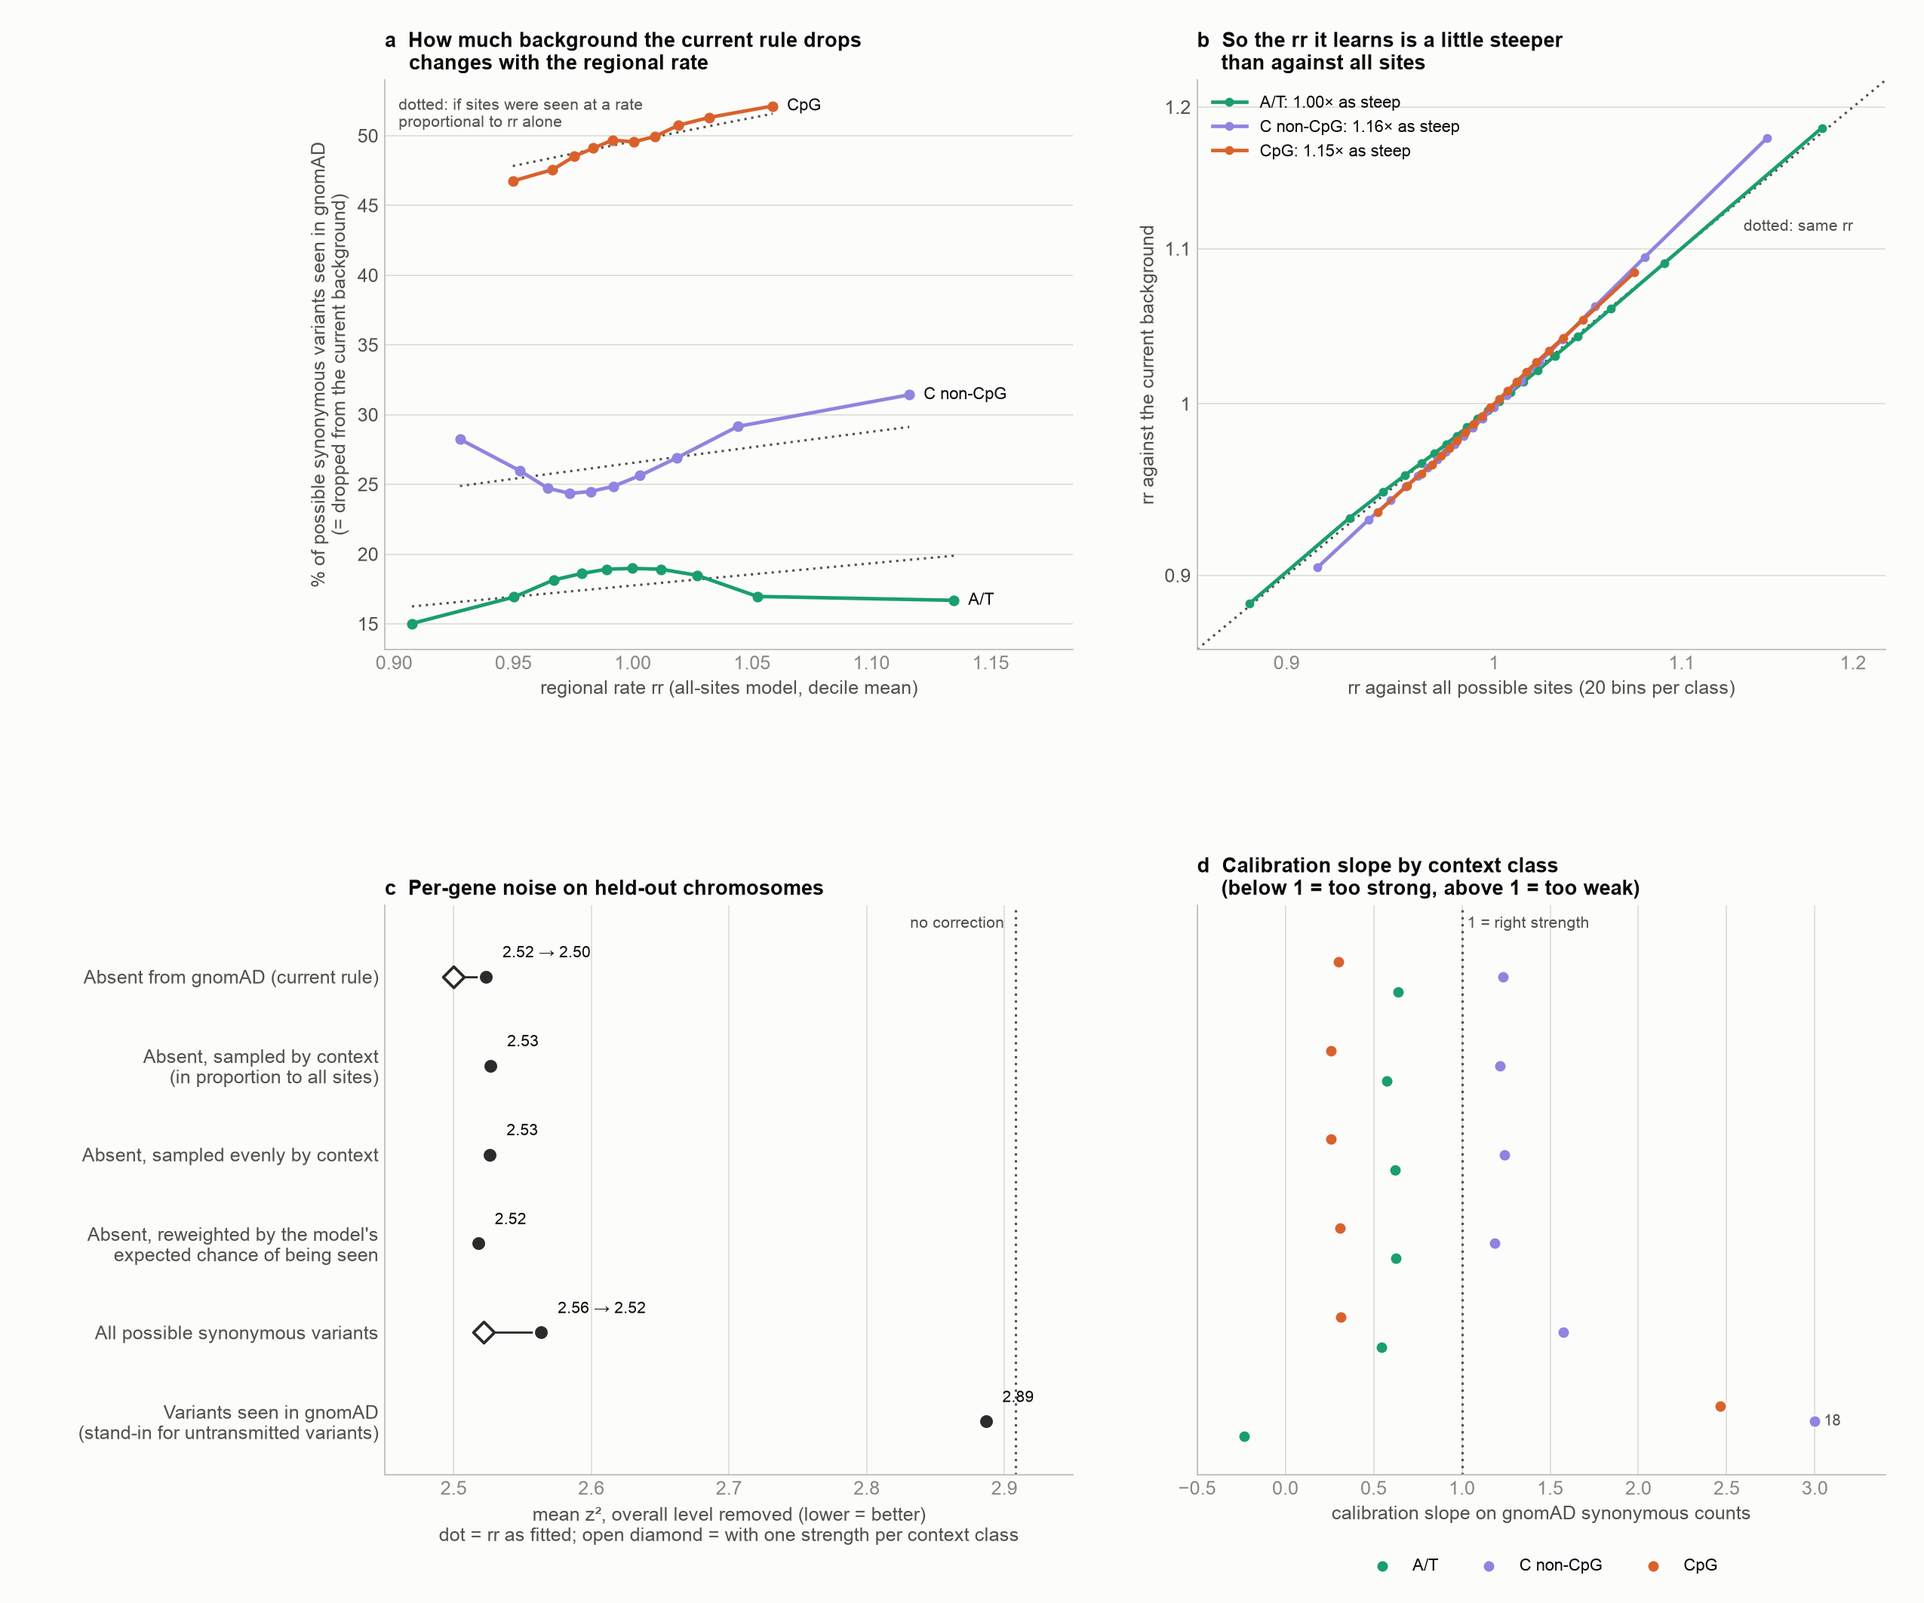
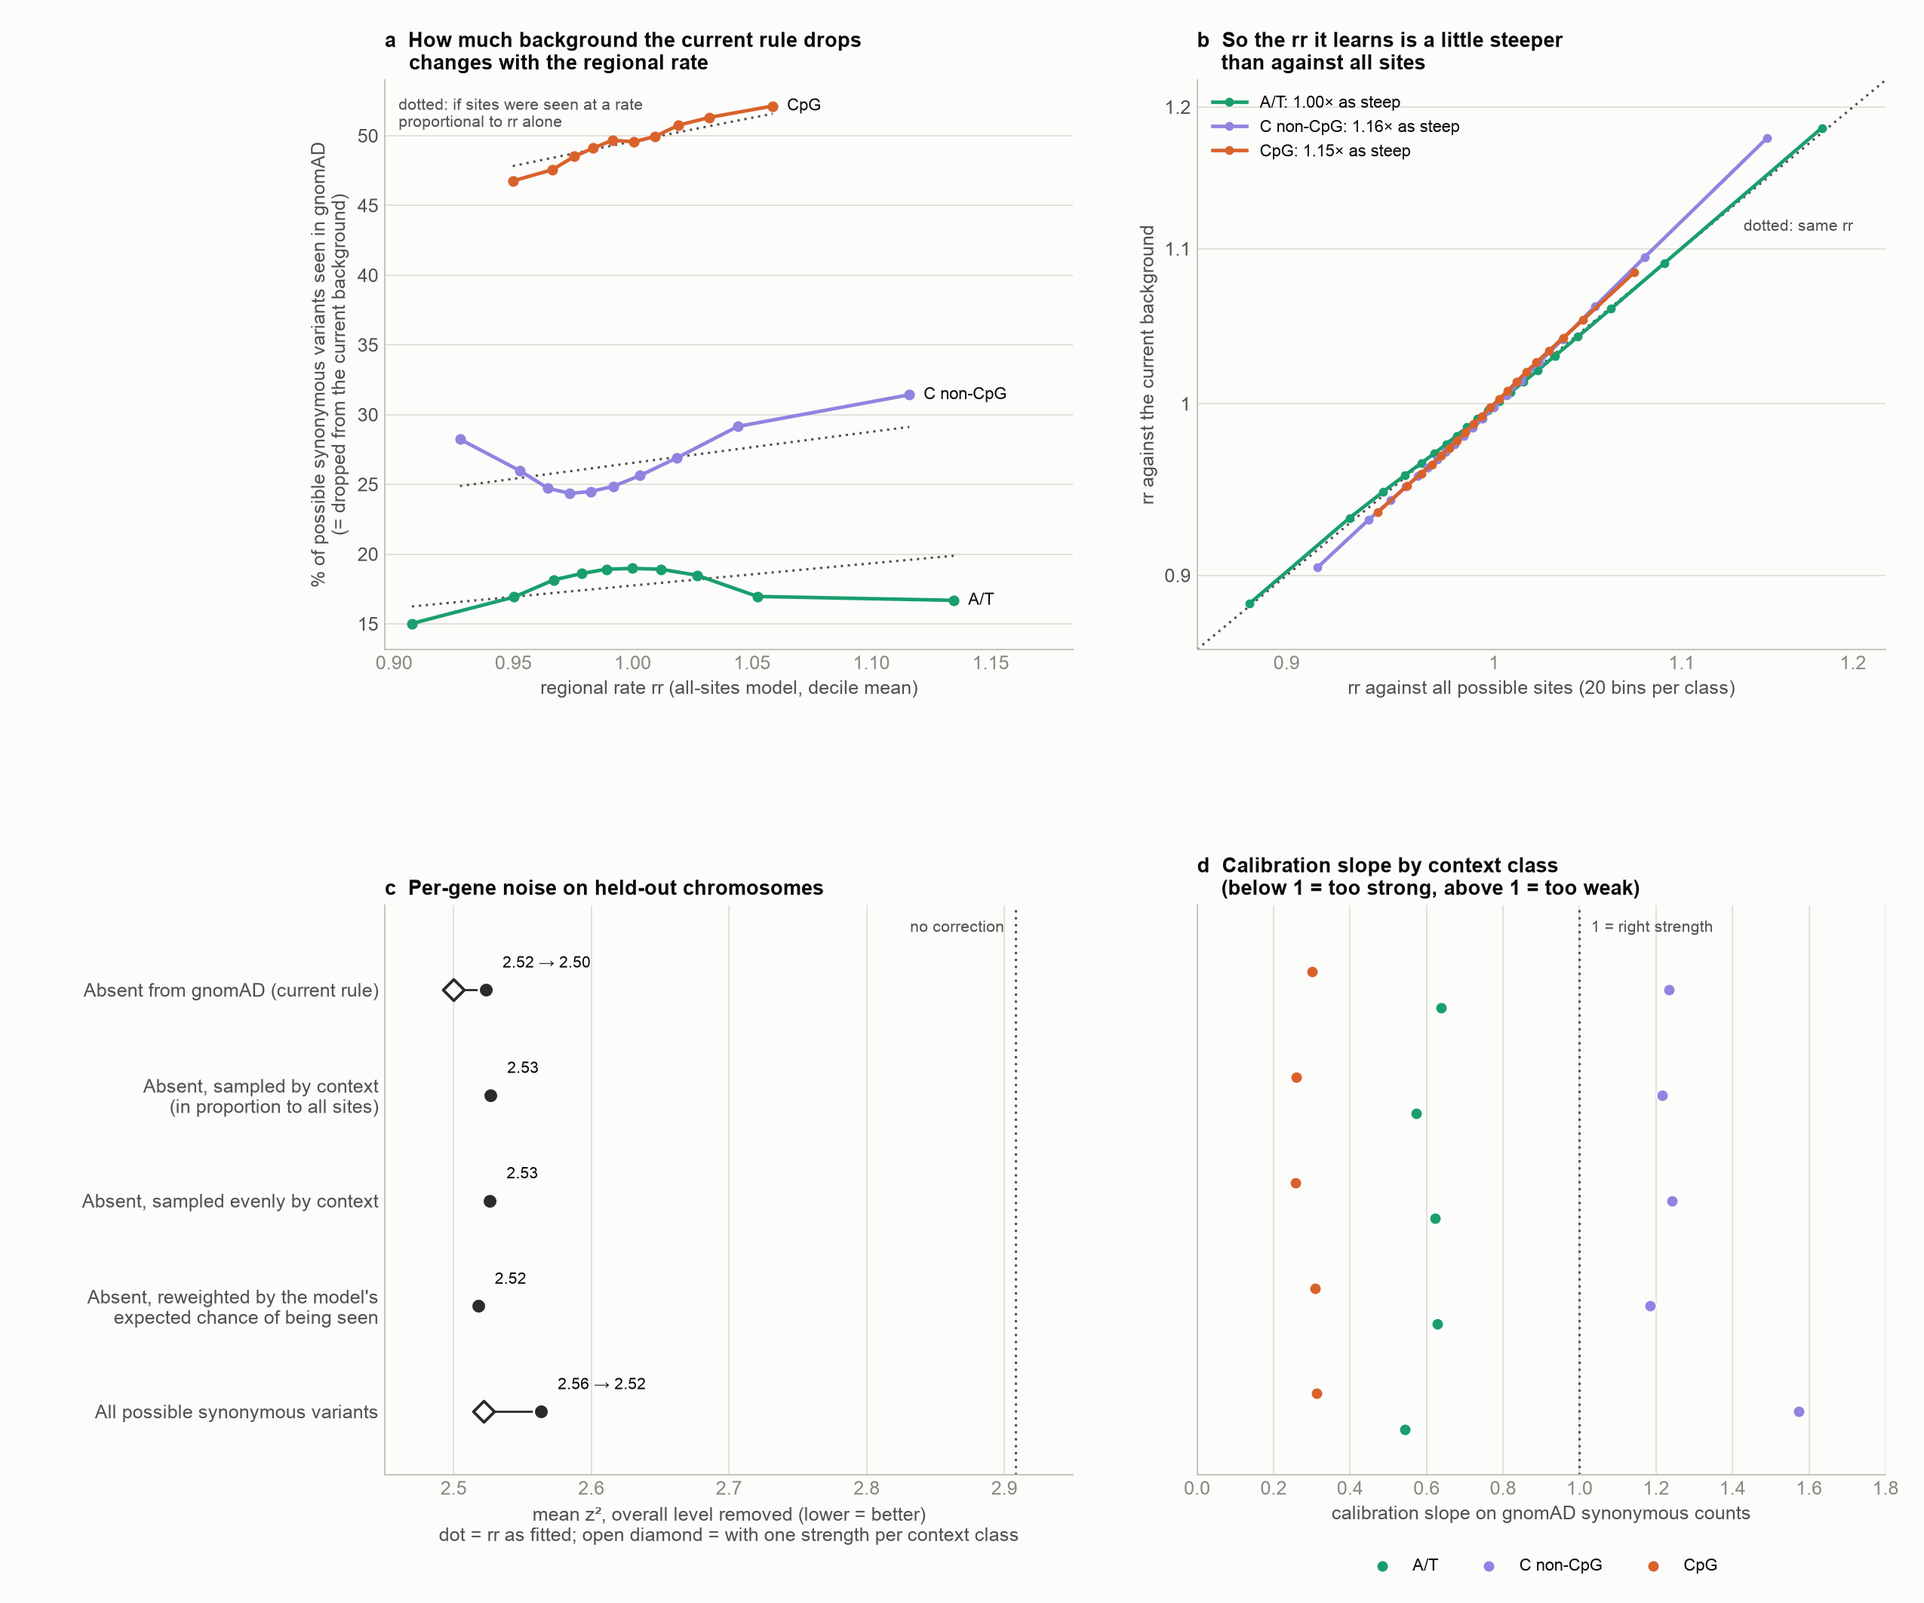
TEMP: Mark the background runs as pending and drop the polymorphism background
Temporary commit for the rr report: pending notes for the proper background runs on jg2, the gnomAD-variant (untransmitted stand-in) background removed from the background section and figure, and the driver and synthetic test for the background runs (cluster/run_backgrounds.sh, cluster/test_background_options.py). Drop this commit before merging.

Assisted-by: ClaudeCode:claude-opus-5-5

diff --git a/gnomad_constraint/plots/adj_r_syn_oe/followup/cluster/test_background_options.py b/gnomad_constraint/plots/adj_r_syn_oe/followup/cluster/test_background_options.py
@@ -1,0 +1,73 @@
+"""Check the rr background options on a small synthetic set of synonymous sites."""
+
+import hail as hl
+
+from gnomad_constraint.resources.constants import GENOMIC_FEATURE_COLUMNS
+from gnomad_constraint.utils.regional_rate import create_rr_training_ht
+
+hl.init(tmp_dir="gs://gnomad-tmp-4day")
+rows = []
+for i in range(6000):
+    ctx = ["ACA", "ACA", "ACG", "TAT"][i % 4]
+    for alt in ["A", "G"] if i % 2 else ["T"]:
+        rows.append(
+            hl.Struct(
+                locus=hl.Locus("chr1", 1_000_000 + i, "GRCh38"),
+                alleles=["C", alt],
+                context=ctx,
+            )
+        )
+schema = hl.tstruct(
+    locus=hl.tlocus("GRCh38"), alleles=hl.tarray(hl.tstr), context=hl.tstr
+)
+syn = hl.Table.parallelize(rows, schema).key_by("locus", "alleles")
+exomes = syn.filter(syn.locus.position % 3 == 0).select()
+dnm = syn.filter(syn.locus.position % 97 == 0).select("context")
+feat = hl.Table.parallelize(
+    [
+        hl.Struct(
+            interval=hl.Interval(
+                hl.Locus("chr1", 999_000, "GRCh38"),
+                hl.Locus("chr1", 1_010_000, "GRCh38"),
+            ),
+            **{c: 1.0 for c in GENOMIC_FEATURE_COLUMNS},
+        )
+    ],
+    hl.tstruct(
+        interval=hl.tinterval(hl.tlocus("GRCh38")),
+        **{c: hl.tfloat64 for c in GENOMIC_FEATURE_COLUMNS},
+    ),
+).key_by("interval")
+n_variants = syn.count()
+n_loci = syn.key_by("locus").distinct().count()
+print(
+    "variants",
+    n_variants,
+    "loci",
+    n_loci,
+    "observed",
+    exomes.count(),
+    "dnms",
+    dnm.count(),
+)
+for kw in (
+    {},
+    {"background_sites": "all"},
+    {"background_unit": "variant"},
+    {"background_sites": "all", "background_unit": "variant"},
+    {"context_sampling": "proportional"},
+    {"context_sampling": "even"},
+):
+    ht = create_rr_training_ht(syn, dnm, exomes, feat, 0.5, 1, **kw)
+    bg = ht.filter(ht.y == 0)
+    print(
+        kw,
+        "background rows",
+        bg.count(),
+        "per context",
+        dict(bg.aggregate(hl.agg.counter(bg.context))),
+        "distinct loci",
+        bg.select().distinct().count(),
+        "DNM rows",
+        ht.filter(ht.y == 1).count(),
+    )

diff --git a/gnomad_constraint/plots/adj_r_syn_oe/followup/make_followup_figures.py b/gnomad_constraint/plots/adj_r_syn_oe/followup/make_followup_figures.py
@@ -2804,10 +2804,6 @@ def draw_background():
             "Absent, reweighted by the model's\nexpected chance of being seen",
         ),
         ("all_sites", "All possible synonymous variants"),
-        (
-            "polymorphisms",
-            "Variants seen in gnomAD\n(stand-in for untransmitted variants)",
-        ),
     ]
 
     def get(bg, app="multiplicative"):
@@ -2966,7 +2962,7 @@ def draw_background():
         1.03, len(backgrounds) - 0.45, "1 = right strength", fontsize=8.8, color=INK2
     )
     ax.set_yticks(ypos, [])
-    ax.set_xlim(-0.5, 3.4)
+    ax.set_xlim(0, 1.8)
     ax.set_ylim(-0.6, len(backgrounds) - 0.2)
     ax.set_title(
         "d  Calibration slope by context class\n    (below 1 = too strong, above 1 = too weak)"

diff --git a/gnomad_constraint/plots/adj_r_syn_oe/rr_syn_dnm_followup.md b/gnomad_constraint/plots/adj_r_syn_oe/rr_syn_dnm_followup.md
@@ -33,6 +33,7 @@ Use a ridge-penalized rr trained on the Satterstrom DNMs, normalized per context
 4. **No rr on chrX/Y.** The best option there lowers noise by under 1%, and correcting only some contexts is hard to explain. Revisit this if the missing features can be recovered.
 5. **Keep the training background, but leave genes with a QC flag out of training.** Switching the background to all sites made noise slightly worse. Dropping the flagged genes' DNMs and background sites gave a small, consistent gain (held-out noise 2.524 → 2.513 locally).
    - ⏳ **Pending (full run on jg1, started 2026-11-04):** the QC-flagged-gene exclusion is being rerun through the pipeline with the real training set, for both ridge and the current method.
+   - ⏳ **Pending (background runs on jg2, started 2026-11-04):** proper pipeline runs of the background designs (see [The training background](#the-training-background-what-the-dnms-are-compared-with)).
 6. **Confirm it in the pipeline, then do one full run.** These results come from a local re-implementation on Ruchit's exports, which reproduces his numbers exactly.
    - ⏳ **Pending (full run on jg1, started 2026-11-04):** the rr pipeline (Bonferroni, 1e-2 and ridge; with and without the QC-flagged genes) and four constraint pipeline runs (ridge and the current method, each with and without the exclusion).
 
@@ -40,6 +41,7 @@ Use a ridge-penalized rr trained on the Satterstrom DNMs, normalized per context
 - **The top-LOEUF-decile rise:** it mostly comes from how LOEUF sorts genes. Binned by s_het, the top decile reaches only 1.04.
 - **The ~130 deficit outliers:** they are flagged mapping artifacts.
 - **Other training backgrounds:** all sites, sampling by context, reweighting, and applying rr before saturation all did the same or slightly worse (see [The training background](#the-training-background-what-the-dnms-are-compared-with)).
+  - ⏳ **Pending (background runs on jg2, started 2026-11-04):** all sites, one row per variant, both together, and sampling by context are being rerun properly through the pipeline.
 
 ## What a good outcome looks like
 
@@ -373,10 +375,19 @@ The rr model contrasts DNM sites with background sites. The pipeline's backgroun
 
 ![Training backgrounds compared](followup/rr_background.png)
 
+⏳ **Pending (background runs on jg2, started 2026-11-04):** the comparison below is a local approximation. The pipeline is rerunning the main designs properly, each in its own output folder under `gs://gnomad-tmp/jg/rr_bg/`, with the full DNM set and the pipeline's background:
+- the current background (absent from gnomAD, one row per locus), as the baseline;
+- all possible synonymous sites, one row per locus;
+- absent from gnomAD, one row per variant;
+- all possible synonymous sites, one row per variant;
+- absent from gnomAD, sampled by context in proportion to all sites, and sampled evenly by context.
+
+Each is fit with the Bonferroni screen, ridge with the default per-site penalty, and ridge with a penalty per DNM (3, 10 or 30), so backgrounds of different sizes get the same shrinkage.
+
 How this was run:
 - **DNMs:** the Satterstrom 2026 synonymous SNVs (`isSyn`), 20,636 of them in the exported windows.
 - **Backgrounds:** built from Ruchit's exported MANE Select cells, one row per possible variant (the pipeline keeps one row per locus).
-- **Fit:** the ridge fit on all features, with the penalty scaled by the number of DNMs so that backgrounds of different sizes get the same shrinkage. The penalty was chosen on held-out DNMs and came out the same (10 per DNM) for every background except gnomAD variants.
+- **Fit:** the ridge fit on all features, with the penalty scaled by the number of DNMs so that backgrounds of different sizes get the same shrinkage. The penalty was chosen on held-out DNMs and came out the same (10 per DNM) for every background.
 - **Comparing:** this is an approximation of the pipeline, so compare the rows with each other rather than with the 2.46 elsewhere in this report.
 
 | Background or option | Noise | Held-out noise | Slope | Slope by class (A/T / other C / CpG) |
@@ -387,7 +398,6 @@ How this was run:
 | Absent, sampled evenly by context | 2.507 | 2.526 | 1.07 | 0.62 / 1.24 / 0.26 |
 | Absent, reweighted by the model's expected chance of being seen | 2.497 | 2.518 | 1.08 | 0.63 / 1.18 / 0.31 |
 | All possible synonymous variants | 2.549 | 2.564 | 1.37 | 0.54 / 1.57 / 0.31 |
-| Variants seen in gnomAD (stand-in for untransmitted variants) | 2.887 | 2.887 | 12.8 | — |
 | Current rule, one strength per context class | 2.464 | 2.500 | — | set to 1 / 1 / 1 |
 | All sites, one strength per context class | 2.474 | 2.522 | — | set to 1 / 1 / 1 |
 | Current rule, rr applied before saturation | 2.525 | 2.538 | 1.37 | 0.69 / 1.47 / 0.51 |
@@ -397,8 +407,9 @@ How this was run:
   - The current rule drops a share of the background that changes with the regional rate. At CpG the share rises steadily with rr (47% to 52%). In other C contexts it is U-shaped (28% at the lowest rr, 24% in the middle, 31% at the top). In A/T contexts it is nearly flat.
   - So the rr learned against it is steeper than against all sites: 1.16 times as steep for C contexts, and the same for A/T. That is less than a simple calculation predicts (1.2–1.7 times), because whether gnomAD has seen a site depends on more than its regional rate.
 - **c. Switching to all sites doesn't help.** Against all sites the rr comes out too weak (slope 1.37), and noise is worse (2.56 against 2.52 on held-out chromosomes). gnomAD's synonymous counts vary more between regions than the DNM rate differences alone predict. The current rule's slight steepening happens to move rr toward that. In effect it trains partly on gnomAD, by using which sites gnomAD has not seen.
+  - ⏳ **Pending (background runs on jg2, started 2026-11-04):** rerunning through the pipeline, one row per locus and per variant.
 - **Sampling by context changes nothing**, whether in proportion to all sites or evenly (2.53 for both, against 2.52). Each context has its own model, so a context's total background only moves that model's intercept, which cancels out of rr. Reweighting the absent sites by the model's expected chance of being seen is also the same (2.52).
-- **Untransmitted variants don't work as controls.** Contrasting DNMs with polymorphisms cancels the mutation-rate signal, because both are more common where mutation is more frequent. With gnomAD variants as the stand-in, rr goes almost flat and noise stays at the no-correction level (2.89). Untransmitted variants in trios are mostly common rather than rare, but they scale with mutation rate the same way. They would be more useful for measuring where the DNM cohorts miss calls (same samples, same pipeline) than as controls.
+  - ⏳ **Pending (background runs on jg2, started 2026-11-04):** rerunning through the pipeline to show the same thing with the real training set.
 - **d. The bigger effect is strength by context class, under every background.** A/T contexts are too strong (slope 0.54–0.64), other C contexts are too weak (1.2–1.6), and CpG contexts are far too strong (about 0.3).
   - Giving each class its own strength, measured on one chromosome half and scored on the other, lowers held-out noise more than any background change (2.52 → 2.50 for the current rule). It also brings the two backgrounds close together.
   - It uses gnomAD to set three numbers, as α does.
@@ -413,6 +424,7 @@ How this was run:
 2. Look at one strength per context class (A/T, other C, CpG), and at why the classes differ.
 3. Drop genes with a QC flag (or, better, low-quality sites) from training (see [Removing poorly covered or mapped genes from training](#removing-poorly-covered-or-mapped-genes-from-training) below).
 4. One thing this can't test locally is one background row per locus (the pipeline) against one per variant. Loci with several synonymous alternatives get one background row but several chances for a DNM. That needs a cluster run.
+   - ⏳ **Pending (background runs on jg2, started 2026-11-04):** now running on jg2 (absent from gnomAD and all sites, each one row per variant).
 
 **Every background run**
 
@@ -433,8 +445,6 @@ How this was run:
 | All possible synonymous variants | rr applied before saturation | 10 | 2.580 | 2.589 | 1.5 / 1.5 | 2.542 | 237 (89) | 1.66 | 0.59 / 1.86 / 0.53 |
 | All possible synonymous variants | no rr at CpG | 10 | 2.560 | 2.572 | 1.5 / 1.5 | 2.530 | 235 (86) | 1.66 | 0.54 / 1.57 / — |
 | All possible synonymous variants | one strength per class | 10 | 2.474 | 2.522 | per class: A/T: 0.54, other C: 1.57, CpG: 0.31 | — | 230 (80) | — | 0.99 / 0.99 / 1.00 |
-| Variants seen in gnomAD | rr as fitted | 100 | 2.887 | 2.887 | 3 / 3 | 2.845 | 269 (122) | 12.84 | -0.24 / 17.55 / 2.46 |
-| Variants seen in gnomAD | rr applied before saturation | 100 | 2.887 | 2.886 | 3 / 3 | 2.851 | 270 (123) | 15.34 | -0.17 / 20.68 / 3.66 |
 
 - **Best α:** one strength for all contexts, chosen on one chromosome half from 0.25–3 and scored on the other. For most backgrounds the chosen α does no better on the other half than α = 1, so a single strength isn't the fix. "One strength per class" sets each class's strength to its calibration slope, also measured on one half and scored on the other.
 - **Penalty:** a first pass used a penalty per row of training data, as the pipeline does. That gives a bigger background more shrinkage, which made the all-sites background look worse than it is (noise 2.63, slope 1.6). The table uses a penalty per DNM instead, chosen on held-out DNMs from 3, 10, 30 and 100. With the pipeline's fixed 5% background the two are the same, but they differ once the background changes.
@@ -667,7 +677,7 @@ Everything here was run locally and is in [followup/](followup/). Each script li
 
 - **Train regional effects on gnomAD rare variants.** The local version, trained on exome synonymous counts from the other chromosome half, scored best of all (2.37, about 4% below the best DNM-based rr). The cleaner version trains on intronic rare variants from gnomAD genomes and needs the cluster.
 - **One rr strength per context class.** A/T contexts are too strong, other C contexts too weak and CpG contexts far too strong under every background. One strength per class lowered held-out noise more than any background change (see [The training background](#the-training-background-what-the-dnms-are-compared-with)). It is worth understanding why the classes differ.
-- **One background row per locus or per variant.** The pipeline keeps one row per locus, although a locus with several synonymous alternatives has several chances for a DNM. It is the one background question the exported data can't answer; it needs a cluster run.
+- **One background row per locus or per variant.** The pipeline keeps one row per locus, although a locus with several synonymous alternatives has several chances for a DNM. It is the one background question the exported data can't answer. ⏳ **Pending (background runs on jg2, started 2026-11-04):** running now.
 - **A broad maternal-hotspot feature.** The rr leaves about a third of the excess in the published maternal C>G hotspot regions (8p: 1.31 → 1.20; DNMs 1.32). Try a smoothed, Mb-scale maternal DNM density, or a regional term learned from gnomAD rare variants.
 - **A gene-level adjustment.** DNMs confirm about two-thirds of the gene-to-gene spread the rr leaves. A gene's own synonymous obs/exp, shrunk toward 1, could adjust its missense and LoF expected counts.
 - **Compare with Roulette, and consider combining them.** [Roulette](https://doi.org/10.1038/s41588-023-01562-0) (Seplyarskiy et al. 2023) is a basepair-resolution mutation rate model built from the observed mutability of each trinucleotide context in 50 kb windows; the paper reports it captures 80–90% of mutation-rate variation along the genome. The questions: what does it capture that our trinucleotide model plus rr doesn't, and can one model use both our regional features and Roulette's per-site rates (for example, Roulette's rate as an offset or a feature)?
